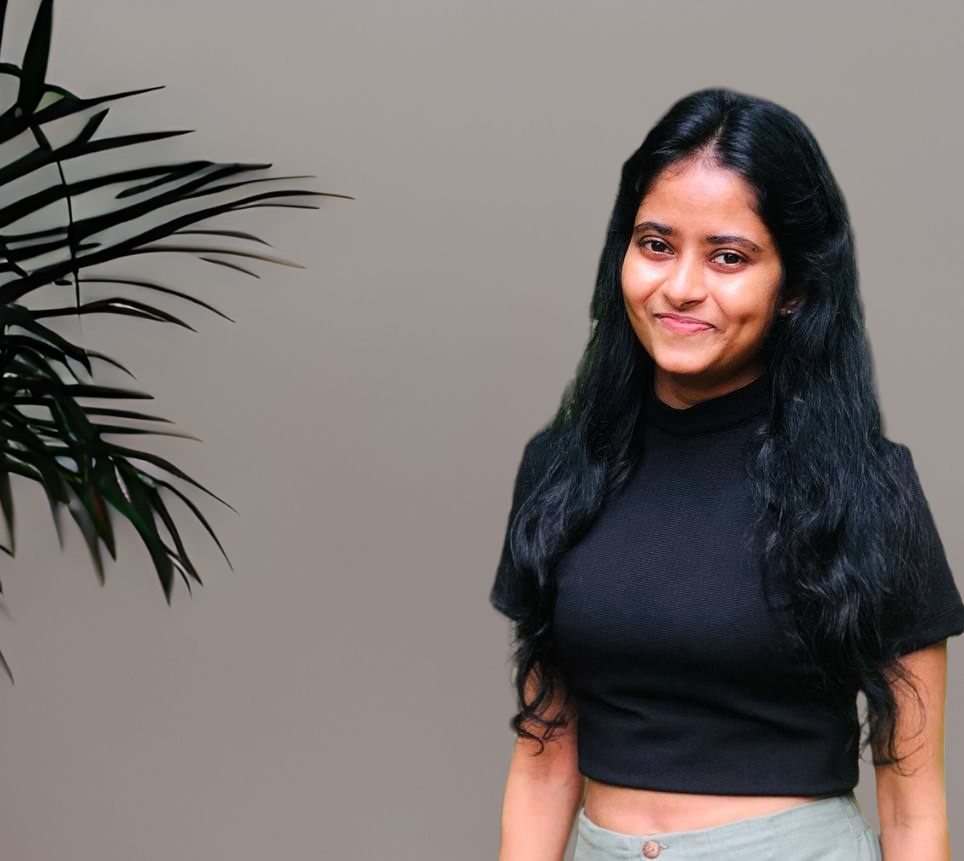
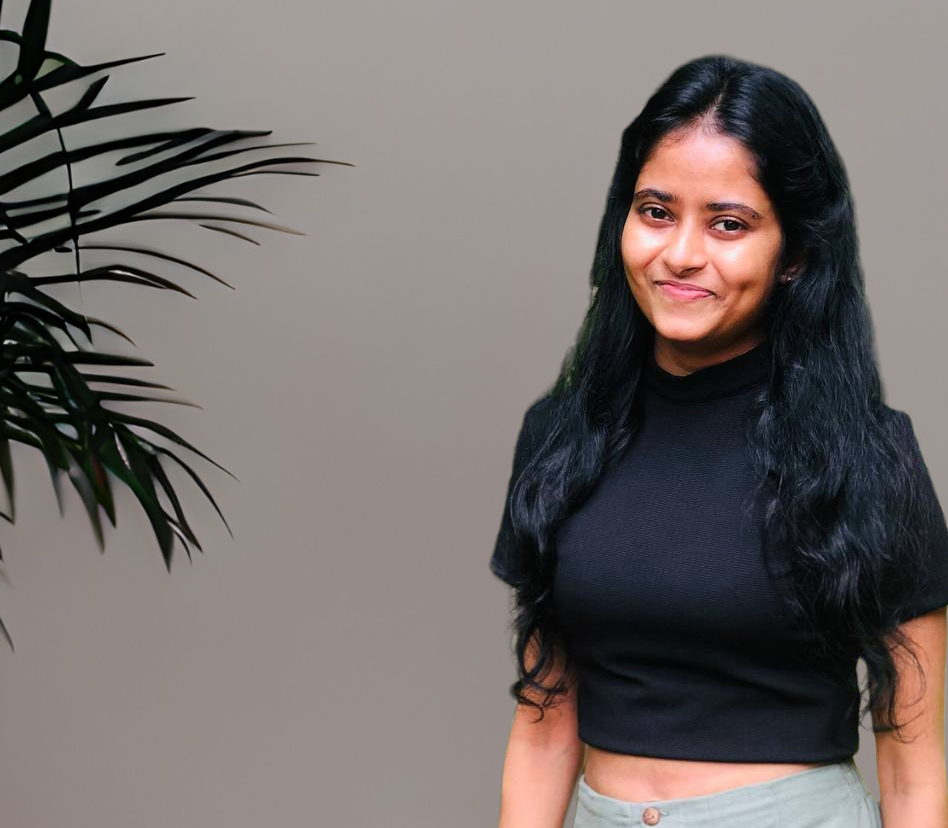
Update ShashiSal98.github.io

diff --git a/index.html b/index.html
@@ -96,7 +96,7 @@
 
         <div class="row">
           <div class="col-lg-4" data-aos="fade-right">
-            <img src="assets/img/2.jpeg" class="img-fluid" alt="">
+            <img src="assets/img/5.PNG" class="img-fluid" alt="">
           </div>
           <div class="col-lg-8 pt-4 pt-lg-0 content" data-aos="fade-left">
             <h3>Software Engineer | Fullstack Developer</h3>
@@ -182,7 +182,7 @@
           <div class="col-lg-3 col-md-6 d-md-flex align-items-md-stretch" data-aos="fade-up" data-aos-delay="100">
             <div class="count-box">
               <i class="bi bi-journal-richtext"></i>
-              <span data-purecounter-start="0" data-purecounter-end="5" data-purecounter-duration="1"
+              <span data-purecounter-start="0" data-purecounter-end="6" data-purecounter-duration="1"
                 class="purecounter"></span>
               <p><strong>Projects</strong> </p>
             </div>

diff --git a/assets/css/style.css b/assets/css/style.css
@@ -228,7 +228,7 @@ h6 {
 #hero {
   width: 100%;
   height: 100vh;
-  background: url("../img/3.jpeg") top center;
+  background: url("../img/4.PNG") top center;
   background-size: cover;
 }
 
